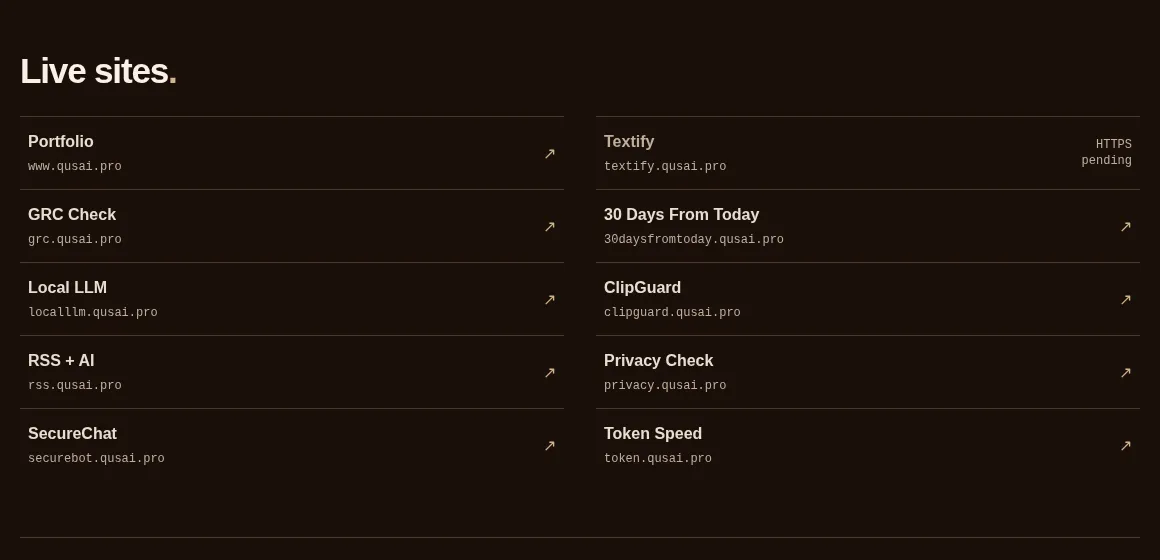
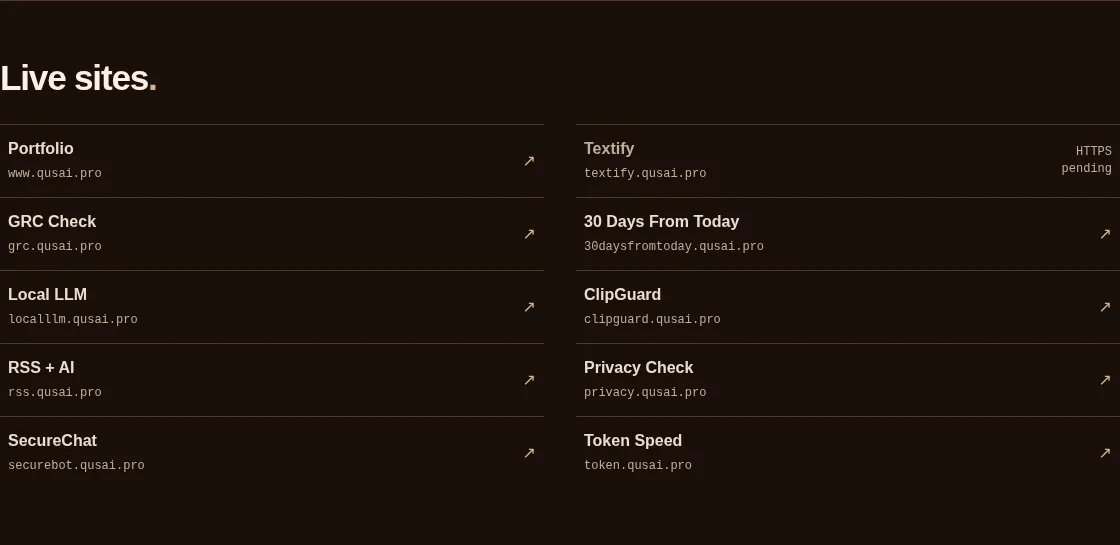
docs: refresh integrated directory captures and release evidence

diff --git a/review/live-sites-release.md b/review/live-sites-release.md
@@ -1,0 +1,31 @@
+# Live-site directory release verification
+
+## Scope and approval
+
+The owner instructed “continue on doing it all in the best way”, then “continue, get it done”, after the two pending portfolio PRs were identified. PR #3's readability pass was merged at `66d7ab6f30d2954cd6f21e1b10387a946c937671`. PR #4 integrates that exact main baseline.
+
+## Conflict decision
+
+`src/sites.html` had one disjoint-intent conflict. Merge commit `67e7e00ebe5a187f640adfc7d062b246f559a577` preserves main's shorter Work introduction and `Tools` section, plus the complete ten-site directory and its page-specific stylesheet. No unrelated copy, article-body, fact, or quotation changes were made.
+
+## Fresh execution (2026-10-05)
+
+- Eleventy build: passed.
+- Unit tests: **4/4** passed.
+- Site tests: **40/40** passed.
+- Browser tests: **29/29** passed, serialized with one worker. Total: **73 tests, zero failures**.
+- Directory coverage includes 320/390/700/701/1024/1440px, both themes, two-column row alignment, contiguous phone rows, 44px minimum hit height, unclipped labels, and sequential visible keyboard focus skipping the pending entry.
+- Content guards require both `noopener` and `noreferrer`, a screen-reader new-tab cue for external links, and same-tab Portfolio navigation.
+- **88/88 final captures** across 11 routes, four widths, and both themes: exact unique-key/count and PNG geometry checks passed; no recorded overflow, broken loaded images, or page errors.
+- **24 axe WCAG A/AA scans** across six changed routes, 390/1440px, and both themes: no detected violations. Keyboard mobile-menu Enter/Escape and theme-toggle checks passed.
+- Integrated directory captures visually inspected at desktop dark, phone light, and narrow-phone dark. Representative committed frames were cropped from settled full-page screenshots; direct locator screenshots had a capture-only last-row clipping artifact, not reproduced in full-page images or browser layout tests.
+- Independent final static review: no confirmed security or logic blocker; both PRs' intents preserved. Runtime evidence above was executed separately by the parent.
+- `git diff --check`: passed. Current-main ancestry check: passed.
+
+## Destinations and limitations
+
+Ten directory entries are retained. Nine destinations returned HTTP 200 with normal HTTPS hostname validation. Textify still failed certificate hostname validation, so it remains visibly labeled `HTTPS pending` without a clickable link. Certificate configuration is outside this portfolio code change.
+
+Physical-phone use, assistive-technology evaluation, and actual 200% browser-chrome zoom are not claimed. Responsive and automated accessibility checks do not replace those checks.
+
+Local full capture/audit/review pack: `/opt/data/personal/portfolio-release-20261005/`. Merge, GitHub Pages deployment, and served-byte verification are read back separately after publication; this preparation record alone does not claim those external effects.
